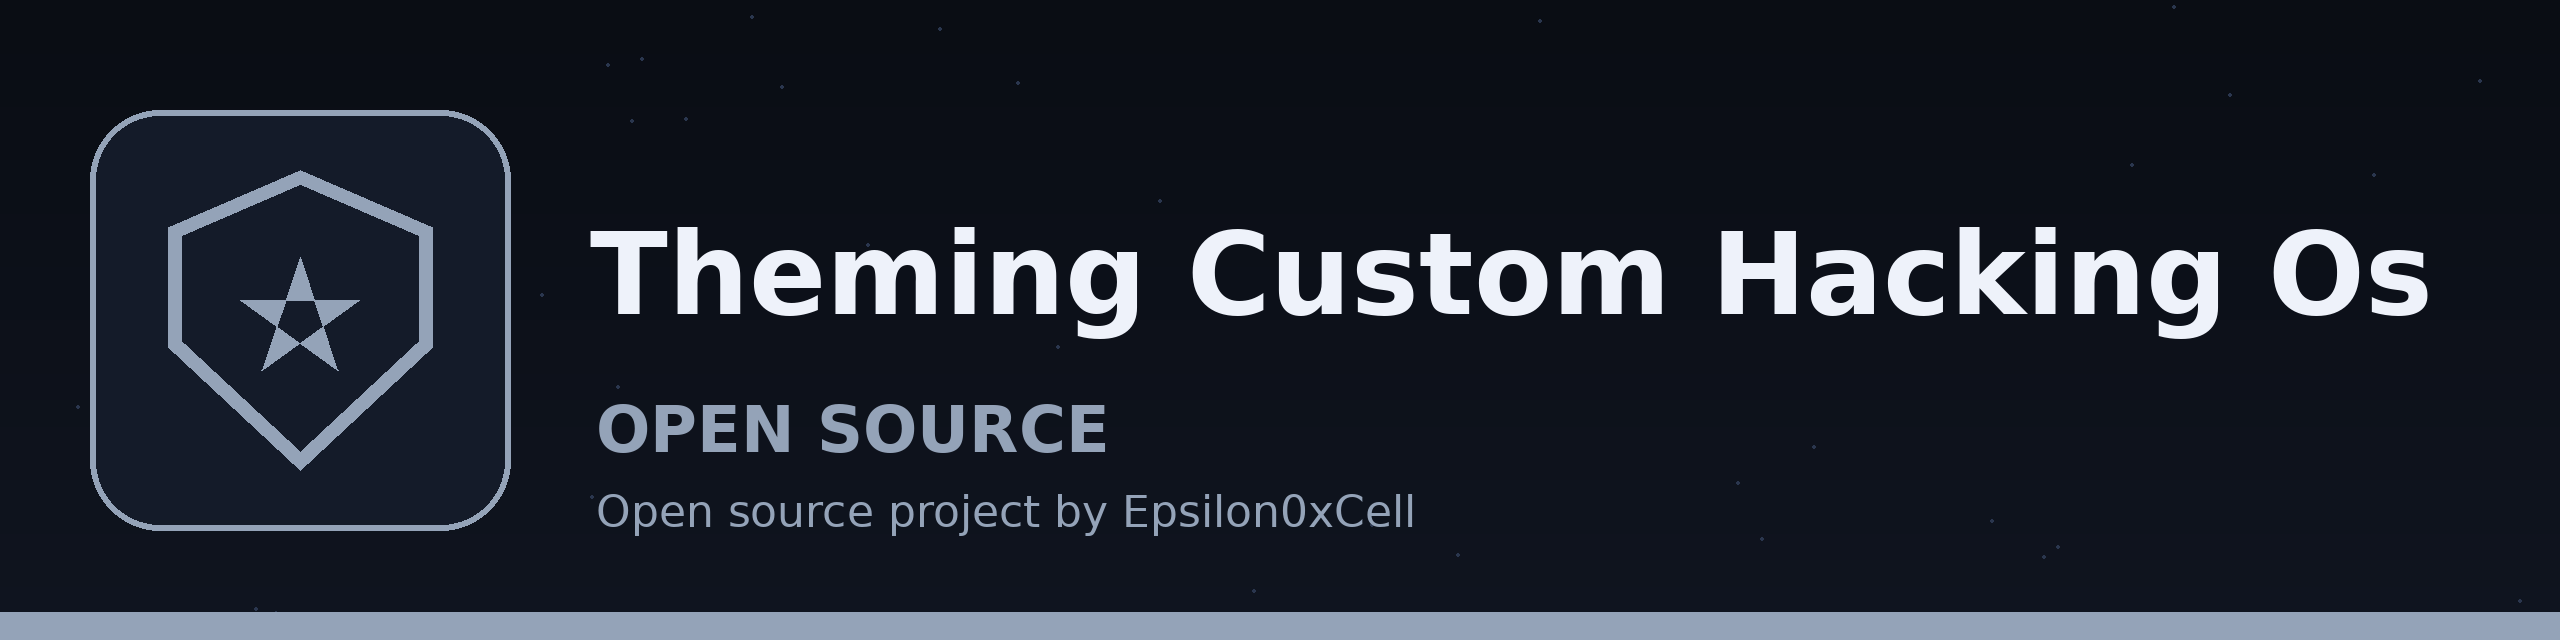
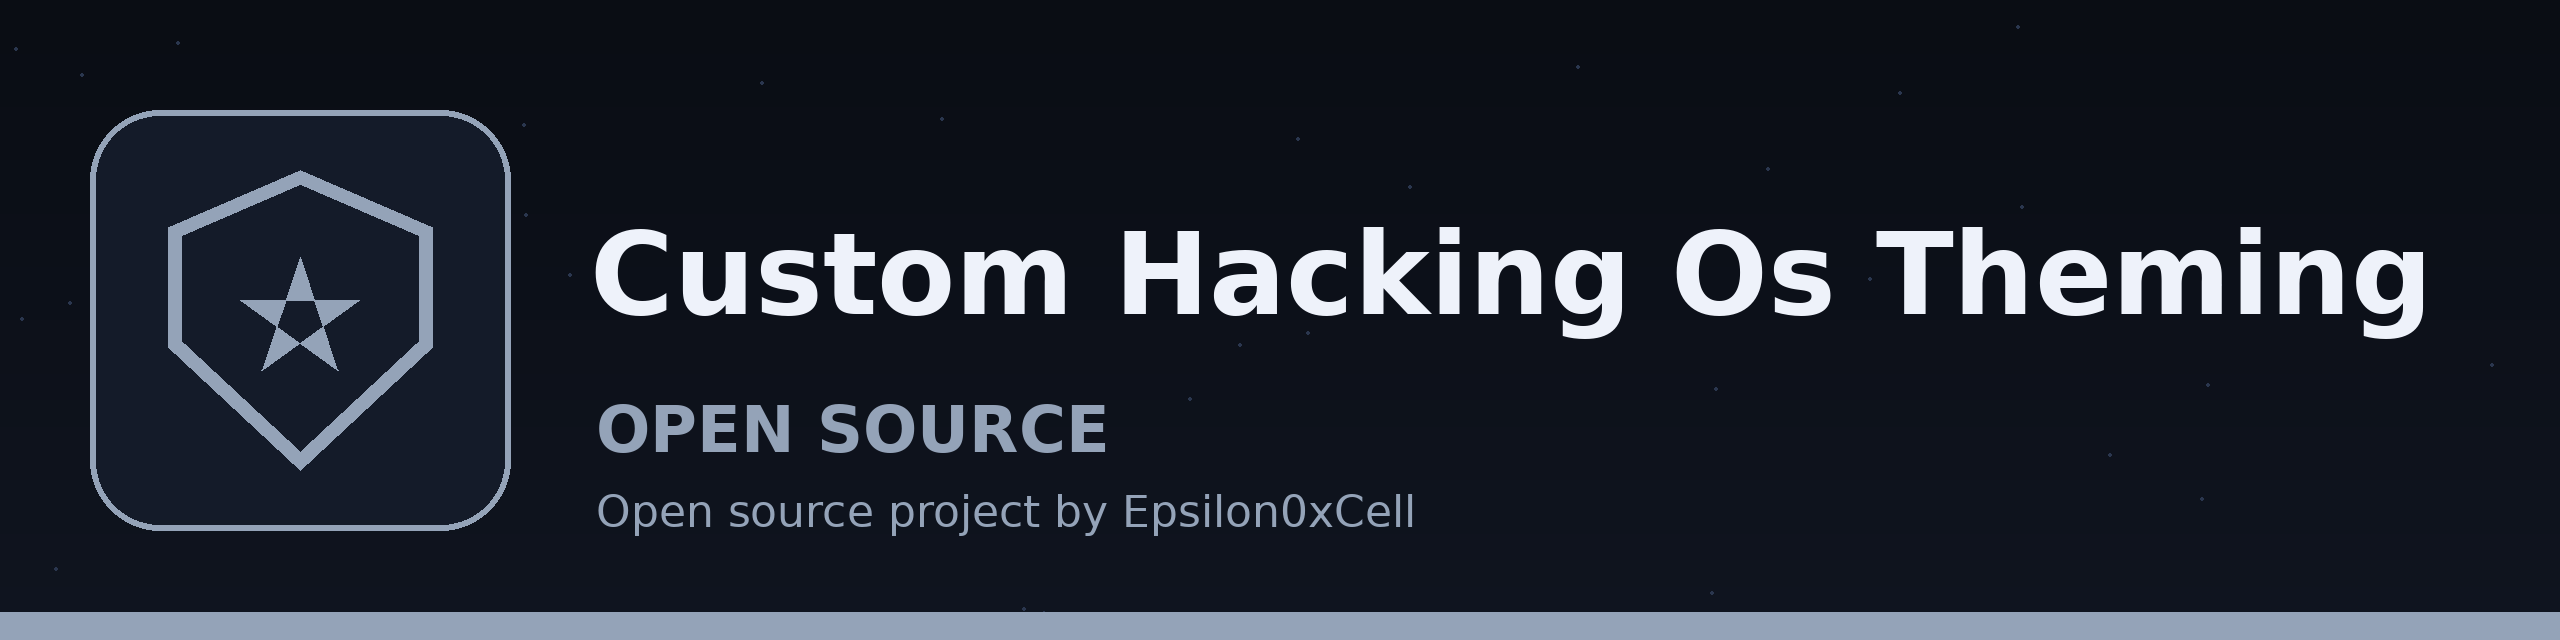
Update name to Custom-Hacking-OS-Theming: README title and branding

Changed region(s): [[0.2188, 0.3438, 0.9688, 0.5312]]

diff --git a/README.md b/README.md
@@ -1,6 +1,6 @@
 ![Banner](banner.png)
 
-# Theming-Custom-Hacking-OS
+# Custom-Hacking-OS-Theming
 Ideology for Theming
 
 When theming a hacking OS that you didn't create, there are only two things that have to be themed, the rest should not be themed as it will be a waste of time. All the other customizations should be the hacking tools themselves.
